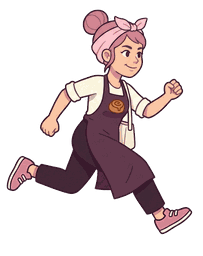
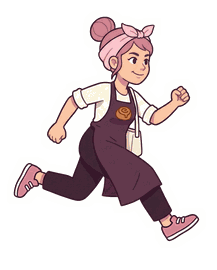
Roll Run: slower run, baker and pickups get a white sticker outline, ground shadow, softer street backdrop

diff --git a/assets/game/game.js b/assets/game/game.js
@@ -90,8 +90,8 @@
   /* ---------- level ---------- */
   function build() {
     rng = seedRng((Date.now() ^ 0x5eed) >>> 0);
-    speed = slow ? 215 : 300;
-    length = 300 * 70;                               // same course in slow mode, it just takes longer
+    speed = slow ? 170 : 230;
+    length = 230 * 72;                               // same course in slow mode, it just takes longer
     objs = []; items = [];
     let x = 700, b = 0;
     const basic = () => BASIC[b++ % BASIC.length];
@@ -271,6 +271,7 @@
     drawSky(c);
     drawCity(c, REDUCED ? 0 : cam * 0.25, 0.55);
     drawCity(c, cam * 0.6, 1);
+    ctx.fillStyle = 'rgba(255,252,250,.38)'; ctx.fillRect(0, 0, W, GROUND);   // soft veil: the baker and pickups pop out of the street
     // ground
     ctx.fillStyle = ['#D9C7C0', '#CFC7C9', '#D6C4B4'][c]; ctx.fillRect(0, GROUND, W, H - GROUND);
     ctx.fillStyle = 'rgba(43,28,37,.12)';
@@ -399,7 +400,11 @@
     ctx.globalAlpha = endT > 0 ? Math.max(0, 1 - endT / 0.6) : blink ? 0.45 : 1;
     const name = hitT > 1 ? 'baker-hit' : !P.ground ? (P.vy < 0 ? 'baker-jump' : 'baker-fall') : 'baker-run' + (1 + Math.floor(P.frame) % 4);
     const im = img(name);
-    if (im) { const h = 80, w = im.naturalWidth / im.naturalHeight * h; ctx.drawImage(im, x - w / 2, P.y + PH - h + 3, w, h); }
+    if (state === 'run') {   // ground shadow, smaller while in the air
+      const k = Math.max(0.35, 1 - (GROUND - P.y - PH) / 200);
+      ctx.fillStyle = 'rgba(43,28,37,.28)'; ctx.beginPath(); ctx.ellipse(x, GROUND + 2, 24 * k, 6 * k, 0, 0, 7); ctx.fill();
+    }
+    if (im) { const h = 92, w = im.naturalWidth / im.naturalHeight * h; ctx.drawImage(im, x - w / 2, P.y + PH - h + 6, w, h); }
     else {
       const y = P.y, step = P.ground ? Math.sin(P.frame * Math.PI / 2) * 6 : 0;
       ctx.strokeStyle = COL.ink; ctx.lineWidth = 2.5;

diff --git a/tools/game/cut.py b/tools/game/cut.py
@@ -47,6 +47,17 @@ def cutout(im, tol=28, crop=True):
     return out.crop(out.getbbox()) if crop else out
 
 
+def sticker(im, r):
+    """Thick white outline around the figure, so she stands out against the busy street."""
+    pad = Image.new("RGBA", (im.width + 2 * r, im.height + 2 * r), (0, 0, 0, 0))
+    pad.paste(im, (r, r))
+    ring = pad.getchannel("A").point(lambda v: 255 if v > 40 else 0).filter(ImageFilter.MaxFilter(2 * r + 1)).filter(ImageFilter.GaussianBlur(0.8))
+    out = Image.new("RGBA", pad.size, (255, 255, 255, 0))
+    out.putalpha(ring)
+    out.alpha_composite(pad)
+    return out
+
+
 def main(names):
     OUT.mkdir(exist_ok=True)
     # baker frames share one crop box, so scale and foot line stay identical between frames
@@ -62,6 +73,8 @@ def main(names):
             im = im.convert("RGB") if opaque else cutout(im)
         w = round(im.width * h / im.height)
         im = im.resize((w, h), Image.LANCZOS)
+        if name.startswith(("baker-", "ing-")):
+            im = sticker(im, 7 if name.startswith("baker-") else 4)
         if h > 150:   # flat art: a palette keeps the big files small
             im = im.quantize(colors=192, method=Image.Quantize.FASTOCTREE, dither=Image.Dither.NONE)
         im.save(OUT / f"{name}.png", optimize=True)
